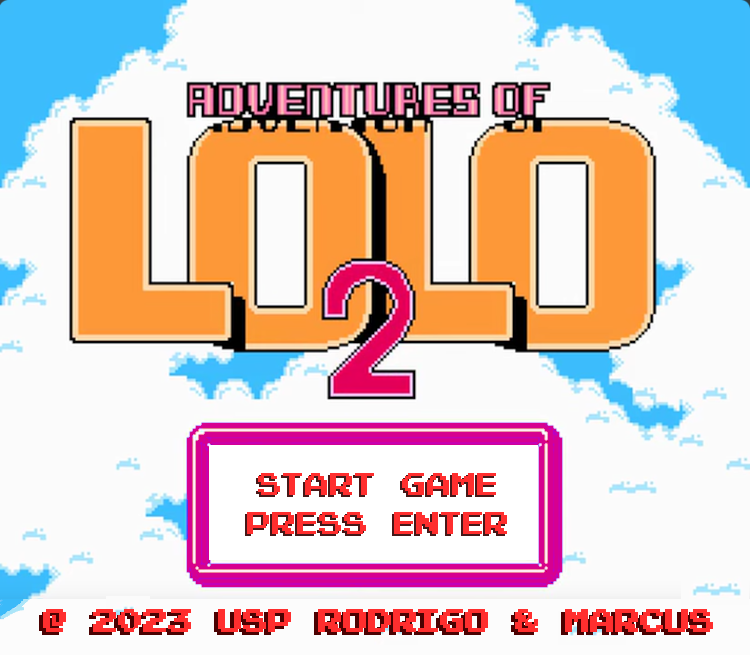
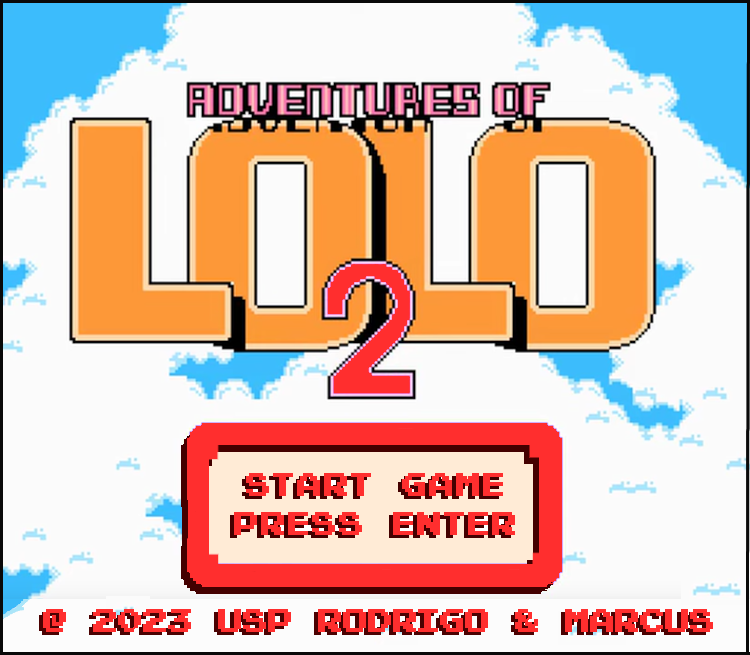
imagens iniciais

Changed region(s): [[0.2147, 0.6412, 0.7667, 0.916], [0.0, 0.0, 1.0, 1.0], [0.4293, 0.3969, 0.552, 0.6107]]

diff --git a/src/Auxiliar/Fase.java b/src/Auxiliar/Fase.java
@@ -184,7 +184,7 @@ public abstract class Fase extends Sistema{
         Elemento pIesimoPersonagem;
         for(int i = 1; i < umaFase.size(); i++){
             pIesimoPersonagem = umaFase.get(i);            
-            if(pIesimoPersonagem instanceof Inimigo){
+            if(pIesimoPersonagem instanceof Inimigo || pIesimoPersonagem instanceof Ovo){
                 Explosao e = new Explosao(pIesimoPersonagem.getPosicao().getLinha(),pIesimoPersonagem.getPosicao().getColuna());
                 umaFase.remove(pIesimoPersonagem);
                 umaFase.add(e);
@@ -200,7 +200,6 @@ public abstract class Fase extends Sistema{
             this.coracoes--;
             if(bau.bauAberto()){
                 bau.setImage("BauAberto.png");
-                bau.bauEstado(false);
             }
         }
         verificaPoder();
@@ -209,9 +208,8 @@ public abstract class Fase extends Sistema{
         Hero hero = (Hero)elemFase.get(0);
         Elemento auxElemento;
         
-        if(hero.getPosicao().igual(bau.getPosicao())){
+        if(hero.getPosicao().igual(bau.getPosicao()) && bau.bauAberto()){
             bau.setImage("BauVazio.png");
-            elemFase.remove(bau);
             porta.setImage("PortaAb.png");
             eliminarInimigos(elemFase);
             porta.abrirPorta();
@@ -321,9 +319,9 @@ public abstract class Fase extends Sistema{
     public void verificaEmpurrar(){
         Hero lolo = (Hero)Elements.get(0);
         
-        List<BlocoEmpurravel> listaEmpurravel = Elements.stream().filter(elem -> elem instanceof BlocoEmpurravel).map(elem -> (BlocoEmpurravel) elem).toList();
-        ArrayList<BlocoEmpurravel> empurravel = new ArrayList(listaEmpurravel);
-        BlocoEmpurravel temp;
+        List<Empurravel> listaEmpurravel = Elements.stream().filter(elem -> elem instanceof Empurravel).map(elem -> (Empurravel) elem).toList();
+        ArrayList<Empurravel> empurravel = new ArrayList(listaEmpurravel);
+        Empurravel temp;
         for(int i = 0; i < empurravel.size(); i++){
             temp = empurravel.get(i);
             if(lolo.getPosicao().igual(temp.getPosicao())){

diff --git a/src/Controler/TelaInicio.java b/src/Controler/TelaInicio.java
@@ -32,7 +32,7 @@ public class TelaInicio extends Sistema{
         this.setSize(Consts.RES * Consts.CELL_SIDE + getInsets().left + getInsets().right,
                 Consts.RES * Consts.CELL_SIDE + getInsets().top + getInsets().bottom);
         try {
-            Image newImage = Toolkit.getDefaultToolkit().getImage(new java.io.File(".").getCanonicalPath() + Consts.PATH + "Iniciov2.png");
+            Image newImage = Toolkit.getDefaultToolkit().getImage(new java.io.File(".").getCanonicalPath() + Consts.PATH + "Inicio.png");
             JPanel imagePanel = new JPanel() {
             @Override
             protected void paintComponent(Graphics g) {

diff --git a/src/Entities/Elements/BlocoEmpurravel.java b/src/Entities/Elements/BlocoEmpurravel.java
@@ -3,10 +3,9 @@ package Entities.Elements;
 import Auxiliar.*;
 import Entities.*;
 
-public class BlocoEmpurravel extends Personagem{
+public class BlocoEmpurravel extends Empurravel{
     public BlocoEmpurravel(int Linha, int Coluna){
-        super("bloco_empurravel.png", new Posicao(Linha, Coluna));
-        this.ehEmpurravel = true;
-        this.ehMortal = false;
+        super(Linha, Coluna);
+        this.setImage("bloco_empurravel.png");
     }
 }

diff --git a/src/Entities/Elements/Ovo.java b/src/Entities/Elements/Ovo.java
@@ -1,12 +1,11 @@
 package Entities.Elements;
 
 import Auxiliar.*;
-import Entities.Inimigo;
+import Entities.*;
 
-public class Ovo extends Inimigo {
+public class Ovo extends Empurravel {
     public Ovo(int Linha, int Coluna) {
-        super("ovo.png", new Posicao(Linha, Coluna));
-        this.ehEmpurravel = true;
-        this.ehMortal = false;
+        super(Linha, Coluna);
+        this.setImage("ovo.png");
     }
 }

diff --git a/src/Entities/Elements/Bau.java b/src/Entities/Elements/Bau.java
@@ -8,7 +8,7 @@ public class Bau extends Elemento{
     
     public Bau(int Linha, int Coluna, boolean estaAberto){
         super("BauFechado.png", new Posicao(Linha, Coluna));
-        this.ehTransponivel = false;
+        this.ehTransponivel = true;
         this.estaAberto = false;
     }
     

diff --git a/src/Entities/Empurravel.java b/src/Entities/Empurravel.java
@@ -1,0 +1,12 @@
+
+package Entities;
+
+import Auxiliar.Posicao;
+
+public abstract class Empurravel extends Personagem{
+    public Empurravel(int Linha, int Coluna){
+        super("", new Posicao(Linha, Coluna));
+        this.ehEmpurravel = true;
+        this.ehMortal = false;
+    }
+}
